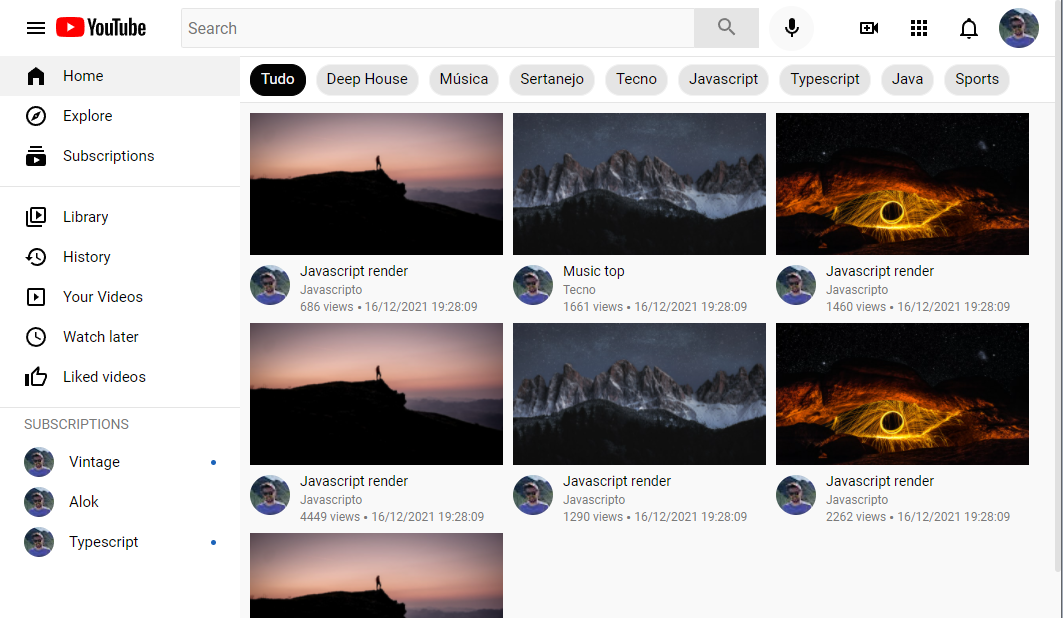
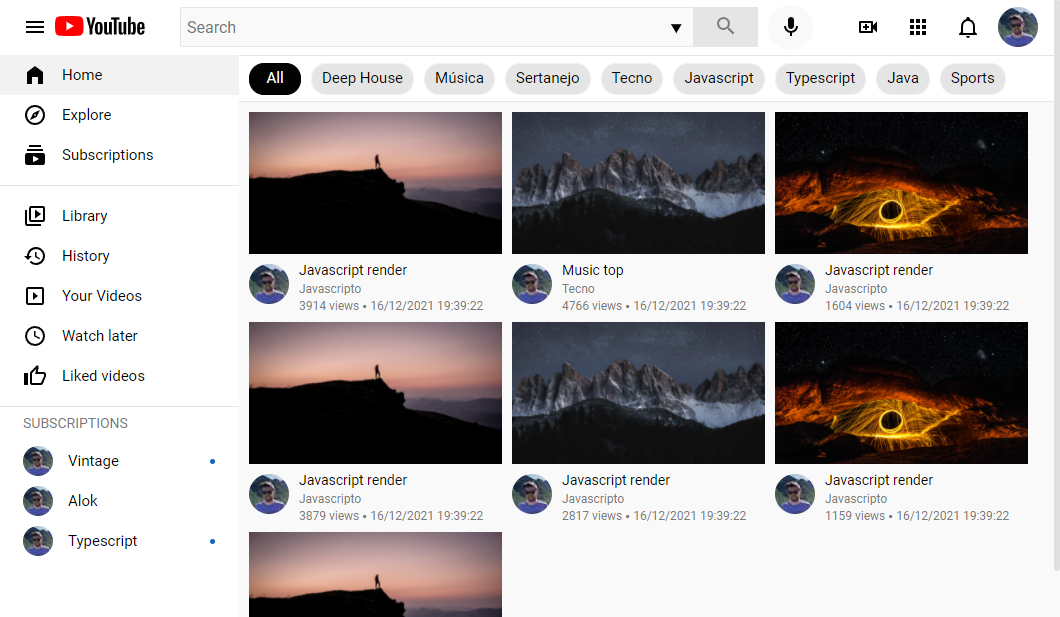
all chip translated

diff --git a/src/components/Suggestions/index.tsx b/src/components/Suggestions/index.tsx
@@ -1,4 +1,6 @@
+import { useRouter } from 'next/router';
 import { useTheme } from 'styled-components';
+import { getLocale } from '../../locales/locales';
 import Chip from '../Chip';
 import Stack from '../Stack';
 
@@ -15,6 +17,8 @@ const items = [
 
 export default function Suggestions() {
   const theme = useTheme();
+  const { locale } = useRouter();
+  const translate = getLocale(locale);
   return (
     <Stack
       style={{
@@ -25,7 +29,7 @@ export default function Suggestions() {
       }}
       spacing="10px"
     >
-      <Chip variant="default">Tudo</Chip>
+      <Chip variant="default">{translate.all}</Chip>
       {items.map((item) => (
         <Chip key={item} variant="outlined">
           {item}
